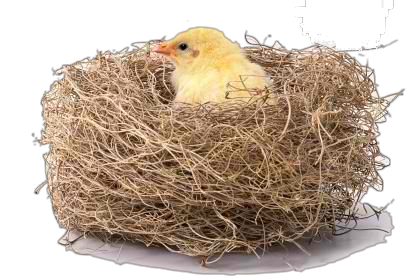
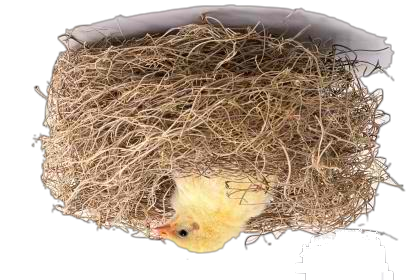
Add nest graphics.

diff --git a/js/nest.js b/js/nest.js
@@ -49,6 +49,10 @@ Nest.prototype.constructor = Nest;
  * @type {Box2D.Common.Math.b2Vec2}
  */
 Nest.NEST_ORIGIN = new Box2D.Common.Math.b2Vec2(3.00, 0.70 + 0.25);
+Nest.NEST_IMAGE_ORIGIN = new Box2D.Common.Math.b2Vec2(2.80, 0.55);
+// The egg carton image is 420 x 280 points. Size the final image so it is 50cm wide and
+// preserves aspect ratio.
+Nest.NEST_IMAGE_SIZE = new Box2D.Common.Math.b2Vec2(0.55, 0.55 * (280.0 / 420.0));
 
 /**
  * Default incubation time, measured in seconds.
@@ -162,7 +166,11 @@ Nest.prototype.addFixturesToBody = function(simulation, body) {
  * @override
  */
 Nest.prototype.loadView = function(simulation) {
-  this.view = new PolyView();
+  var nestView = new ImageView();
+  nestView.setOrigin(Nest.NEST_IMAGE_ORIGIN);
+  nestView.setSize(Nest.NEST_IMAGE_SIZE);
+  nestView.loadImage("./img/nest.png");
+  this.view = nestView;
 }
 
 /**

diff --git a/js/egg_carton.js b/js/egg_carton.js
@@ -34,7 +34,7 @@ EggCarton.prototype.constructor = EggCarton;
  */
 EggCarton.EGG_CARTON_ORIGIN = new Box2D.Common.Math.b2Vec2(1.70, 0.70);
 EggCarton.EGG_CARTON_IMAGE_ORIGIN = new Box2D.Common.Math.b2Vec2(1.50, 0.55);
-// The frypan image is 275 x 211 points. Size the final image so it is 45cm wide and
+// The egg carton image is 275 x 211 points. Size the final image so it is 45cm wide and
 // preserves aspect ratio.
 EggCarton.EGG_CARTON_IMAGE_SIZE = new Box2D.Common.Math.b2Vec2(0.45, 0.45 * (211.0 / 275.0));
 
